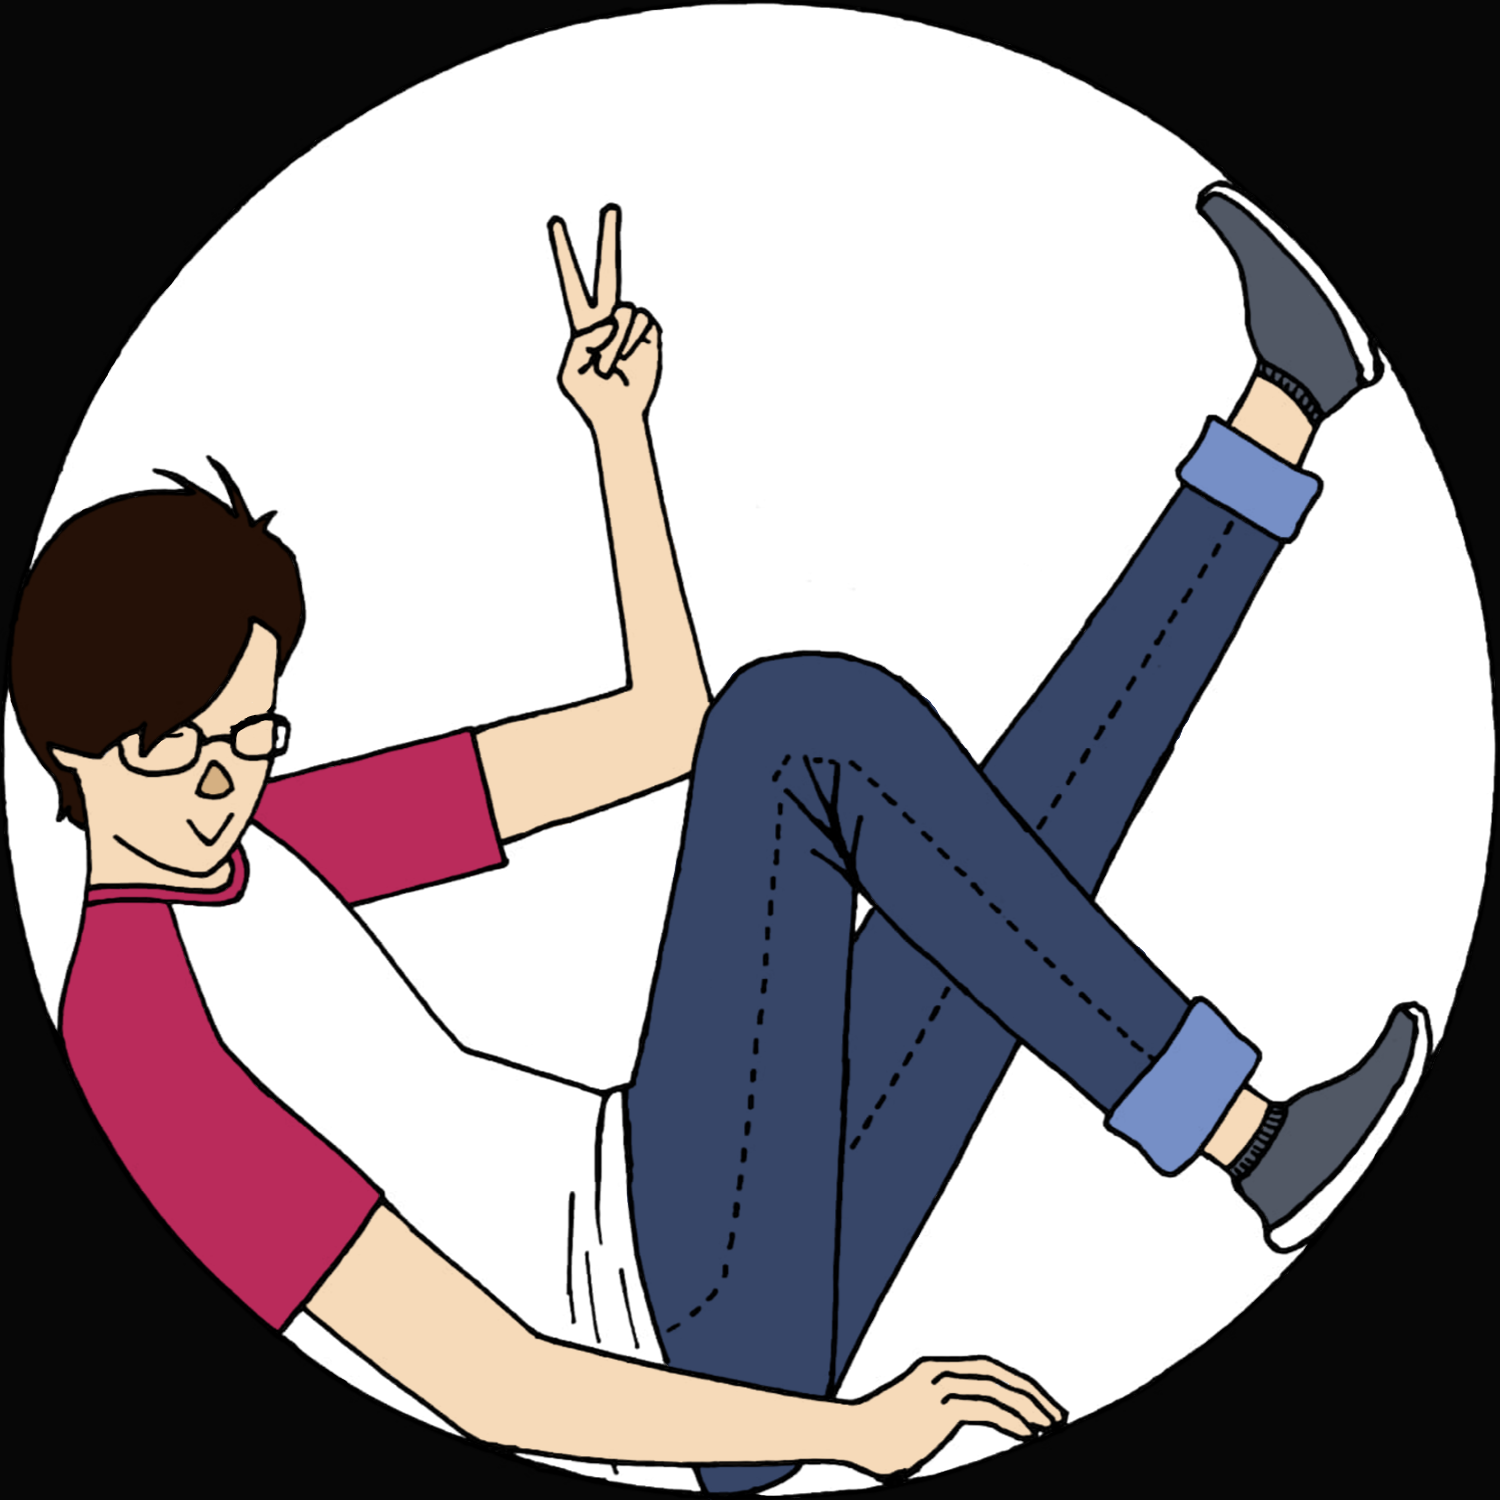
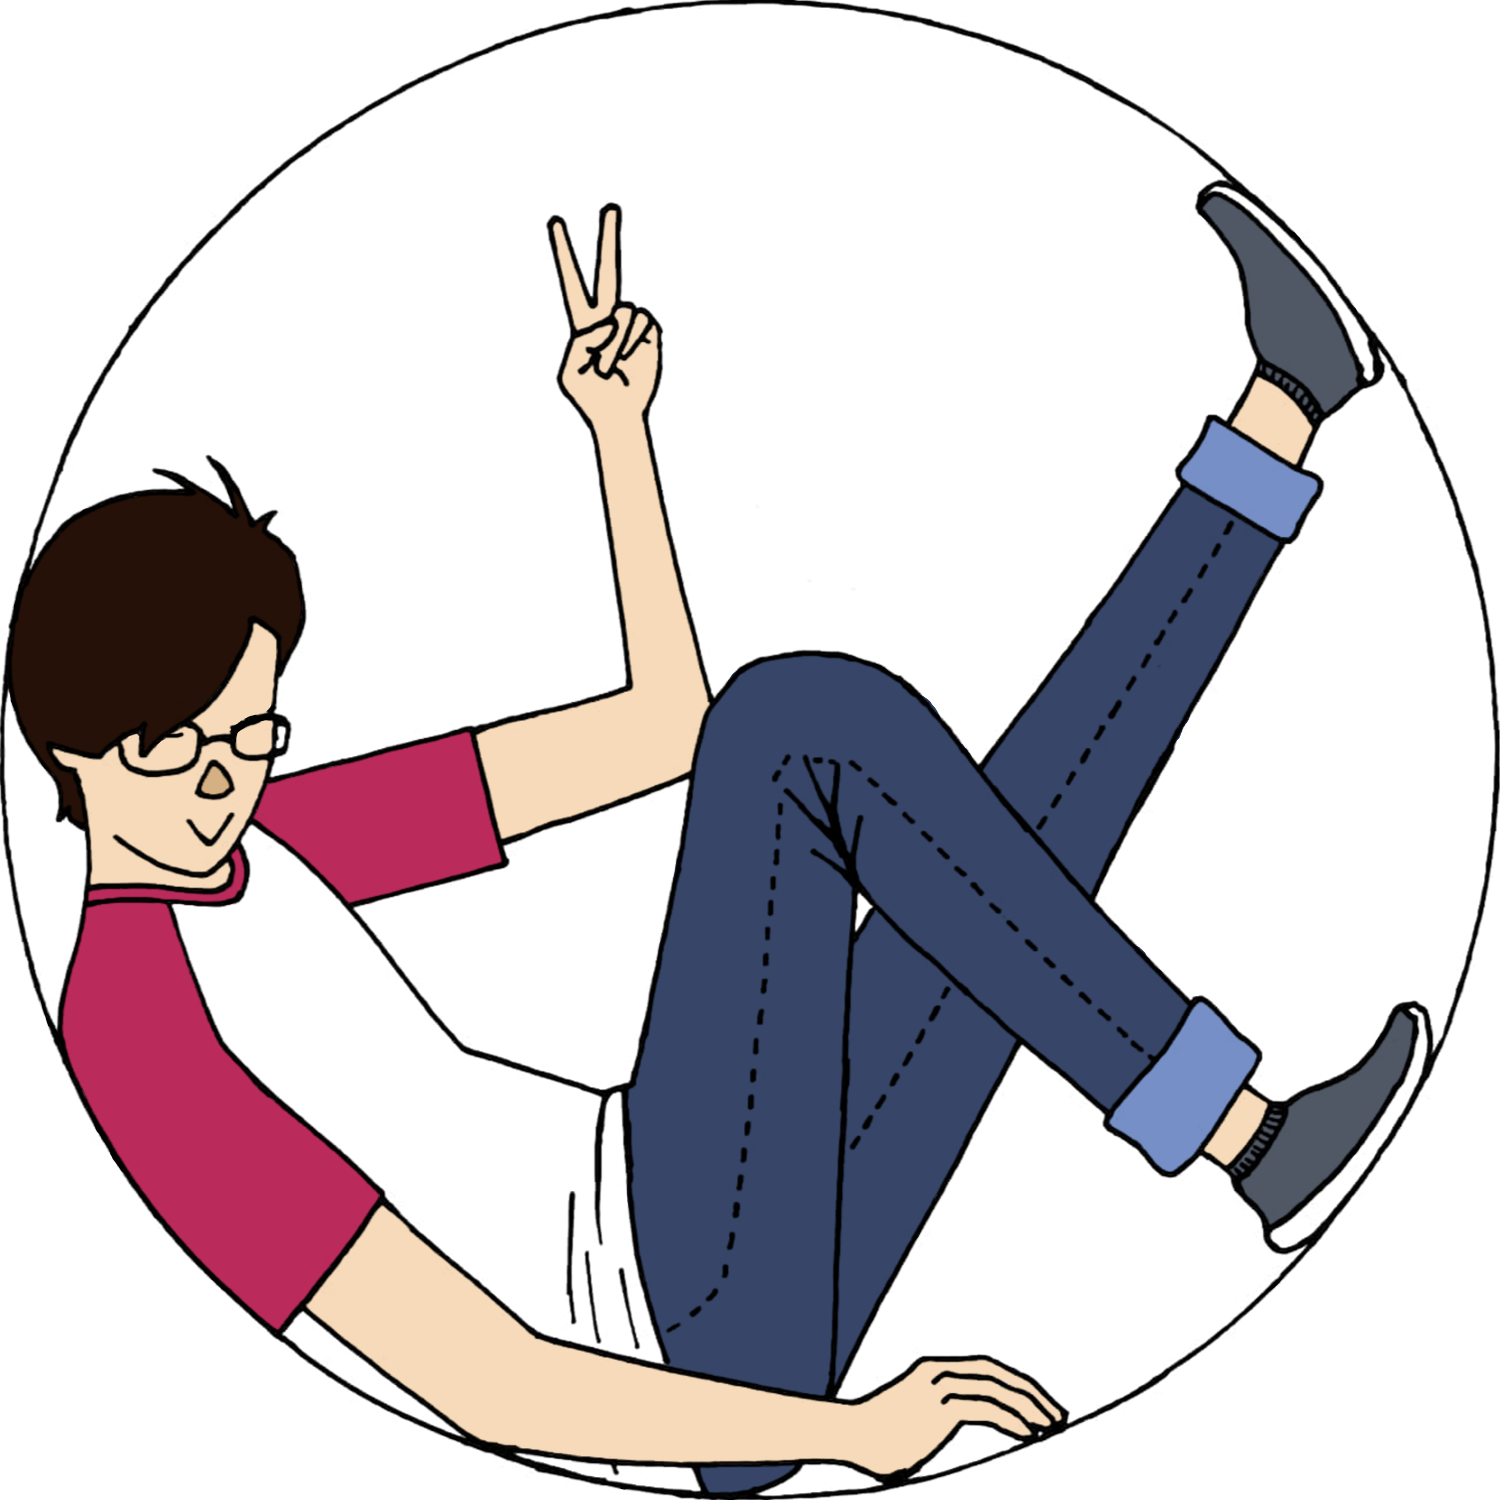
Clear bgs for pfps

diff --git a/about/about.js b/about/about.js
@@ -17,9 +17,6 @@ function loadImage(path, visible) {
     let img = document.createElement("img");
     img.src = path;
     img.classList.add("pfp");
-    // img.style.setProperty("object-fit", "contain");
-    // img.style.setProperty("max-width", "100%");
-    // img.style.setProperty("max-height", "100%");
     if (!visible) {
         img.hidden = true;
     }
